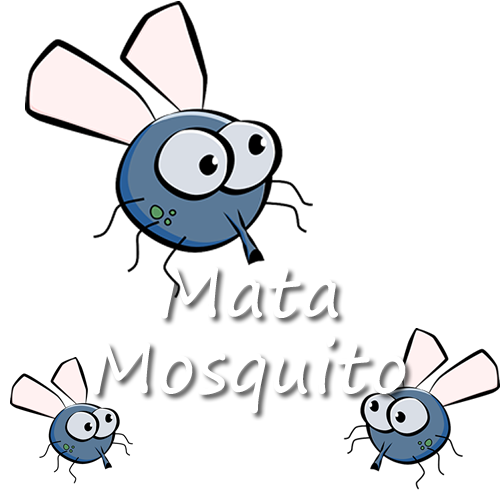
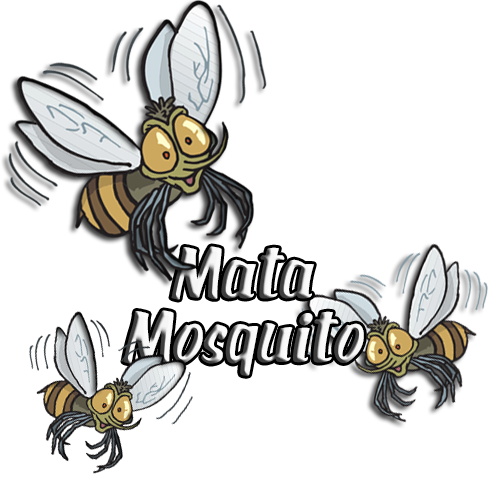
Um mosquito mais realista
-Alteração das imagens representando o mosquito.
-Mais realismo.

diff --git a/estilo.css b/estilo.css
@@ -10,13 +10,13 @@ body{
 }
 
 .mosquito1{
-	width: 50px;
-	height: 50px;
+	width: 70px;
+	height: 70px;
 }
 
 .mosquito2{
-	width: 70px;
-	height: 70px;
+	width: 80px;
+	height: 80px;
 }
 
 .mosquito3{
